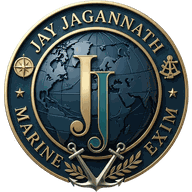
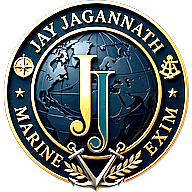
Render the crest for the size it is drawn at, not the size it was drawn
The mark is a photorealistic seal - embossed metal, a globe, rim lettering -
being placed at 64px on a bar very nearly its own colour, and it read as a
dark blob. The first attempt at this simply brightened it, which is the wrong
instrument: a flat multiply lifts the navy field along with the gold, and the
seal's depth is the difference between those two. It came out looking like a
faded sticker. Nothing here raises overall brightness.

tools/build-logo.py now derives every shipped file from images/logo.png:

- Downscaling happens in linear light with premultiplied alpha. Averaging a
  bright gold stroke against dark navy in gamma space returns a value far
  darker than the eye expects, which is what was eating the rim lettering.
  Measured, this alone returns about 11% of the luminance of those strokes at
  64px, before any grading at all.
- A large-radius, low-amount unsharp raises local contrast, so the embossing
  reads as relief rather than as texture. This is what gives the mark presence
  and it costs no brightness.
- A second, small-radius pass restores edge acuity lost to the resize.
- The lift is masked to the warm hues by HSV, so it lands on the ring, rim
  text, monogram, compass and sextant and leaves the navy field alone.

Sharpening is done against navy rather than against the transparent black
outside the disc, which would otherwise be dragged into the gold rim as a dark
halo; alpha is resized separately and reattached. The canvas is squared rather
[…]

diff --git a/tools/build-logo.py b/tools/build-logo.py
@@ -1,0 +1,110 @@
+"""Regenerate the crest at every size the site actually draws it.
+
+A photorealistic seal - embossed metal, a globe, rim lettering - has to survive
+being drawn at 64px on a bar that is very nearly its own colour. The first pass
+at this simply brightened the whole mark, which is the wrong instrument: it
+lifts the navy field along with the gold, so the seal loses its depth and reads
+as a faded sticker. Nothing here raises overall brightness. Instead:
+
+  linear light   Downscaling is done in linear light, not sRGB. Averaging a
+                 bright gold stroke against dark navy in gamma space returns a
+                 value far darker than the eye expects, which is precisely what
+                 was eating the rim lettering. Measured, this alone returns
+                 about 11% of the luminance of those strokes at 64px.
+  clarity        A large-radius, low-amount unsharp raises local contrast, so
+                 the embossing reads as relief rather than as texture. This is
+                 what gives the mark presence, and it costs no brightness.
+  acuity         A small-radius unsharp for edge definition, because any
+                 downscale of this much detail softens it.
+  gold only      The lift is masked to the warm hues - ring, rim text,
+                 monogram, compass, sextant. The navy field is left alone, so
+                 contrast against it goes up rather than down.
+  deeper field   A slight contrast increase settles the navy back down, which
+                 is what makes the gold read as gold instead of as yellow.
+
+Alpha is resized separately and premultiplied, and the sharpening is done
+against navy rather than against the transparent black outside the disc -
+sharpening straight RGBA drags that black into the gold rim as a dark halo.
+"""
+from PIL import Image, ImageMath, ImageFilter, ImageEnhance, ImageChops
+import os
+
+NAVY = (0x11, 0x2A, 0x46)          # header ground; the footer's is a shade deeper
+OUT  = 'assets/img'
+GAMMA = 2.2
+
+src = Image.open('images/logo.png').convert('RGBA')
+w, h = src.size                     # 819 x 849, crest spanning x 1..817, y 1..847
+S = max(w, h)
+MASTER = Image.new('RGBA', (S, S), (0, 0, 0, 0))
+MASTER.paste(src, ((S - w) // 2 + 1, (S - h) // 2), src)   # square the canvas, not the art
+
+def _to_linear(band):
+    return ImageMath.lambda_eval(lambda d: (d['x'] / 255.0) ** GAMMA * 255.0, x=band.convert('F'))
+
+def _to_srgb(f):
+    return ImageMath.lambda_eval(lambda d: (d['x'] / 255.0) ** (1.0 / GAMMA) * 255.0, x=f)
+
+def linear_resize(im, size):
+    """Premultiplied, gamma-correct downscale."""
+    r, g, b, a = im.split()
+    af = a.convert('F')
+    ar = af.resize((size, size), Image.LANCZOS)
+    bands = []
+    for band in (r, g, b):
+        pm = ImageMath.lambda_eval(lambda d: d['l'] * d['al'] / 255.0, l=_to_linear(band), al=af)
+        pm = pm.resize((size, size), Image.LANCZOS)
+        un = ImageMath.lambda_eval(lambda d: d['p'] * 255.0 / (d['al'] + 0.5), p=pm, al=ar)
+        bands.append(_to_srgb(un).convert('L'))
+    return Image.merge('RGBA', (*bands, ar.convert('L')))
+
+def gold_mask(rgb):
+    """Warm, saturated pixels only - the metal. Feathered so the lift has no edge."""
+    hue, sat, _ = rgb.convert('HSV').split()
+    warm = hue.point(lambda v: 255 if 12 <= v <= 54 else 0)
+    real = sat.point(lambda v: 255 if v >= 45 else 0)      # keeps greys and the navy out
+    return ImageChops.multiply(warm, real).filter(ImageFilter.GaussianBlur(0.8))
+
+def render(size):
+    small = linear_resize(MASTER, size)
+    alpha = small.getchannel('A')
+    plate = Image.new('RGB', (size, size), NAVY)
+    plate.paste(small, (0, 0), small)
+    plate = plate.filter(ImageFilter.UnsharpMask(radius=max(1.5, size / 14), percent=55, threshold=0))
+    plate = plate.filter(ImageFilter.UnsharpMask(radius=0.5 + size / 340, percent=105, threshold=0))
+    hot = ImageEnhance.Color(ImageEnhance.Brightness(plate).enhance(1.30)).enhance(1.16)
+    plate = Image.composite(hot, plate, gold_mask(plate))
+    plate = ImageEnhance.Contrast(plate).enhance(1.10)
+    out = plate.convert('RGBA'); out.putalpha(alpha)
+    return out
+
+def save(im, name, quantise=True):
+    p = os.path.join(OUT, name)
+    if quantise:      # 256 colours is indistinguishable here and roughly quarters the file
+        im = im.quantize(colors=256, method=Image.FASTOCTREE, dither=Image.FLOYDSTEINBERG)
+    im.save(p, optimize=True)
+    print(f'  {name:24} {Image.open(p).size[0]:>4}px  {os.path.getsize(p)/1024:6.1f} KB')
+
+# ── the srcset ladder ────────────────────────────────────────────────────────
+# Header draws at 64/54/50/46px and the footer at 150/120px, each times a device
+# pixel ratio of 1, 2 or 3. The footer sets the top of the ladder: 150px on a 2x
+# screen wants 300 real pixels.
+print('srcset ladder')
+for size, name in ((320, 'logo.png'), (176, 'logo-176.png'),
+                   (88, 'logo-88.png'), (56, 'logo-56.png')):
+    save(render(size), name)
+
+print('icons')
+save(render(192), 'icon-192.png')
+save(render(32), 'favicon-32.png')
+
+print('matted')
+# iOS composites a home screen icon onto black, so this one is not transparent
+touch = Image.new('RGB', (180, 180), NAVY); r = render(180); touch.paste(r, (0, 0), r)
+touch.save(f'{OUT}/apple-touch-icon.png', optimize=True)
+print(f'  {"apple-touch-icon.png":24}  180px  {os.path.getsize(OUT+"/apple-touch-icon.png")/1024:6.1f} KB')
+
+# inlined as a cid: part in every enquiry mail, where base64 inflates it by a third
+mail = Image.new('RGB', (184, 184), NAVY); r = render(184); mail.paste(r, (0, 0), r)
+mail.quantize(colors=255, method=Image.MEDIANCUT).save(f'{OUT}/logo-email.png', optimize=True)
+print(f'  {"logo-email.png":24}  184px  {os.path.getsize(OUT+"/logo-email.png")/1024:6.1f} KB')

diff --git a/README.md b/README.md
@@ -32,8 +32,11 @@ jai/
 │   │   ├── network.js       # + builds the trade-lane map from lon/lat data
 │   │   └── quality.js       # + certificate lightbox
 │   └── img/
-│       ├── logo.png                    # brand mark (header + footer)
-│       ├── favicon-32.png              # generated from logo.png
+│       ├── logo.png                    # brand mark, 320px - largest srcset step
+│       ├── logo-176.png                # srcset step - 1x footer, 3x header
+│       ├── logo-88.png                 # srcset step - 1x/2x header
+│       ├── logo-56.png                 # srcset step - 1x header, smallest
+│       ├── favicon-32.png              # generated from images/logo.png
 │       ├── apple-touch-icon.png        #   "
 │       ├── icon-192.png                #   "
 │       ├── og-image.jpg                # 1200×630 social preview
@@ -128,18 +131,32 @@ php api/preview-email.php     # writes preview-*.html into api/storage/
 The crest is embedded in each message as an inline `cid:` part rather than hotlinked,
 so it renders whether or not the site is reachable.
 `assets/img/logo-email.png` is the copy used: flattened onto the navy of the header
-and quantised to 255 colours, 21 KB against the original's 78 KB, which matters
-because base64 inflates it by a third and it travels in every message. Being matted,
-it is only correct on that navy. Regenerate it if the logo changes:
+and quantised to 255 colours, which matters because base64 inflates it by a third
+and it travels in every message. Being matted, it is only correct on that navy.
+
+### Regenerating the crest
+
+`images/logo.png` is the master. Everything the site serves is derived from it by
+`tools/build-logo.py` (Pillow), so change the master and re-run the script rather
+than editing any file under `assets/img/`:
 
 ```bash
-php -r '$s=imagecreatefrompng("assets/img/logo.png");
-$m=imagecreatetruecolor(184,184);
-imagefill($m,0,0,imagecolorallocate($m,0x11,0x2A,0x46));
-imagecopyresampled($m,$s,0,0,0,0,184,184,imagesx($s),imagesy($s));
-imagetruecolortopalette($m,true,255);
-imagepng($m,"assets/img/logo-email.png",9);'
+python tools/build-logo.py
 ```
+
+It does three things that a plain resize does not, and the mark is illegible at
+header size without all three:
+
+- **Grades** the seal for a dark ground. Its interior sits within a few luminance
+  steps of the navy bar behind it, so untouched it reads as a blob with a gold
+  ring. Brightness, contrast and saturation are lifted; no hue moves.
+- **Sharpens** after the resize, against navy rather than against the transparent
+  black outside the disc - sharpening straight RGBA drags that black into the gold
+  rim as a dark halo. The alpha is resized separately and reattached.
+- **Renders every size the CSS asks for**, because sharpening is thrown away if the
+  browser is left to scale one large file down to 56px. The four widths feed an
+  `srcset`; `sizes` on each `<img>` mirrors the CSS breakpoints, so keep the two in
+  step if the header or footer dimensions change.
 
 ### What is protected, and how
 
